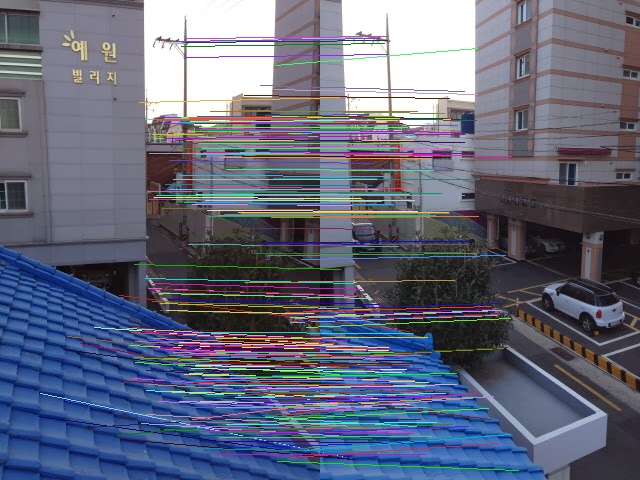
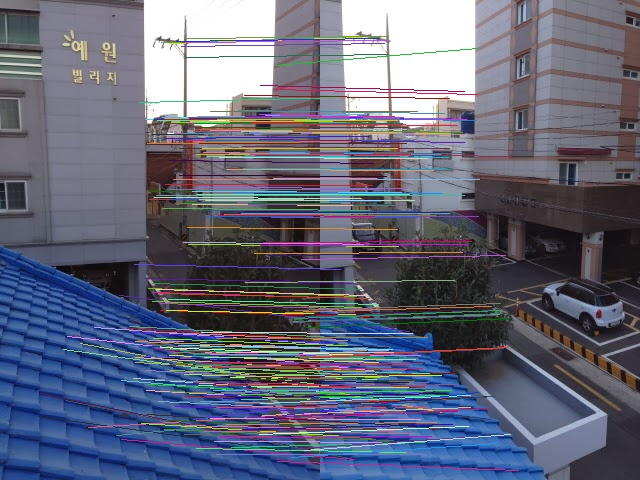
update

Changed region(s): [[0.0625, 0.1562, 0.8125, 1.0], [0.25, 0.0625, 0.625, 0.125]]

diff --git a/HW3/APIS/apis.py b/HW3/APIS/apis.py
@@ -1,7 +1,6 @@
 from typing import List, Any, Tuple
 import math
 import numpy as np
-from scipy import interpolate
 
 from cv2 import cv2
 
@@ -88,9 +87,9 @@ def homomat(min_match_count: int, src, dst):
         src1, src2 = src[i, 0, 0], src[i, 0, 1]
         dst1, dst2 = dst[i, 0, 0], dst[i, 0, 1]
         A[i * 2, :] = [src1, src2, 1, 0, 0, 0, -
-                       src1 * dst1, - src2 * dst1, - dst1]
+                       src1 * dst1, - src2 * dst1, -dst1]
         A[i * 2 + 1, :] = [0, 0, 0, src1, src2, 1, -
-                           src1 * dst2, - src2 * dst2, - dst2]
+                           src1 * dst2, - src2 * dst2, -dst2]
     [_, S, V] = np.linalg.svd(A)
     m = V[np.argmin(S)]
     m *= 1 / m[-1]
@@ -116,7 +115,9 @@ def ransac(matches, kps_list, min_match_count, num_test: int, threshold: float):
             src_pts_reshape = src_pts.reshape(-1, 2)
             one = np.ones((len(src_pts_reshape), 1))
             src_pts_reshape = np.concatenate((src_pts_reshape, one), axis=1)
-            warped_left = np.mat(homography) * np.mat(src_pts_reshape).T
+            warped_left = np.array(np.mat(homography) * np.mat(src_pts_reshape).T)
+            for i, value in enumerate(warped_left.T):
+                warped_left[:, i] = (value * (1 / value[2])).T
 
             # Calculate SSD
             dst_pts_reshape = dst_pts.reshape(-1, 2)
@@ -143,64 +144,71 @@ def warp(img1, img2, homography):
     # Get images' height and weight
     (hA, wA), (hB, wB) = img1.shape[:2], img2.shape[:2]
 
-    # Create a new view window
-    vis = np.zeros((max(hA, hB), wA + wB, 3), dtype='uint8')
-
     # Transform image 1 with homography matrix
     img2_grid = [[n, m, 1] for n in range(wB) for m in range(hB)]
 
-    # Apply homography image 1
+    # Apply homography image 2
     warped_img2 = np.array(np.mat(homography) * np.mat(img2_grid).T)
+    for i, value in enumerate(warped_img2.T):
+        warped_img2[:, i] = (value * (1 / value[2])).T
 
-    min_n = math.floor(min(warped_img2[0]))
-    max_n = math.ceil(max(warped_img2[0]))
-    min_m = math.floor(min(warped_img2[1]))
-    max_m = math.ceil(max(warped_img2[1]))
-    print(min_n, max_n, min_m, max_m)
+    # Find size of new window
+    min_x = math.floor(min(warped_img2[0]))
+    max_x = math.ceil(max(warped_img2[0]))
+    min_y = math.floor(min(warped_img2[1]))
+    max_y = math.ceil(max(warped_img2[1]))
 
-    n_mosaic = max(max_n, wA) - min(min_n, 1) + 1
-    m_mosaic = max(max_m, hA) - min(min_m, 1) + 1
+    size_x = max(max_x, wA) - min(min_x, 1) + 100
+    size_y = max(max_y, hA) - min(min_y, 1) + 100
 
-    vis = np.zeros((n_mosaic, m_mosaic, 3), dtype='uint8')
-    warped = cv2.warpPerspective(img2, homography, (n_mosaic, m_mosaic))
+    if size_x > 100000:
+        print("Not good")
+        return None
+
+    # OpenCV warp
+    warped = cv2.warpPerspective(img2, homography, (size_y, size_x))
     warped[:hA, :wA] = img1
-    cv2.imshow("show", warped)
-    cv2.waitKey(10000)
+    cv2.imshow("show_opencv", warped)
+    cv2.waitKey(5000)
 
-    img2 = img2.reshape(-1, 1, 3)
-    for i, (x, y) in enumerate(zip(warped_img2[0], warped_img2[1])):
-        vis[math.ceil(x), math.ceil(y)] = img2[i, 0]
-    cv2.imshow("show", vis)
-    cv2.waitKey(10000)
+    # Save the window
+    cv2.imwrite('./results/warp/openCV.jpg', warped)
+    cv2.destroyAllWindows()
 
-    '''# Apply inverse homography to image 1
-    [N_mosaic, M_mosaic] = np.mgrid[min(min_n, 1): (min(min_n, 1) + n_mosaic - 1), min(min_m, 1): (min(min_m, 1) + m_mosaic - 1)]
-    N_mosaic = N_mosaic.reshape(-1,)
-    M_mosaic = M_mosaic.reshape(-1,)
-    ind_mosaic_homo = np.array([[n, m, 1] for n, m in zip(N_mosaic, M_mosaic)])
+    # My warp
 
-    ind_inv_homo = np.linalg.inv(homography).dot(ind_mosaic_homo.T)
-    ind_inv = ind_inv_homo.T / ind_inv_homo[2, :].T.reshape(-1, 1)
-    ind_inv = ind_inv[:, 0: 2]
+    # Take four corner from image 1
+    img1_corners = [[0, 0, 1], [0, hA, 1], [wA, 0, 1], [wA, hA, 1]]
+    warped_corners = np.array(np.linalg.inv(np.mat(homography)) * np.mat(img1_corners).T)
+    for i, value in enumerate(warped_corners.T):
+        warped_corners[:, i] = (value * (1 / value[2])).T
 
-    m_len = (min(min_n, 1) + n_mosaic - 1) - min(min_n, 1)
-    n_len = (min(min_m, 1) + m_mosaic - 1) - min(min_m, 1)
-    M_inv = ind_inv[:, 0].reshape(m_len, n_len)
-    N_inv = ind_inv[:, 1].reshape(m_len, n_len)
+    max4y = math.ceil(max(warped_corners[:, 0]))
+    min4y = math.floor(min(warped_corners[:, 0]))
+    max4x = math.ceil(max(warped_corners[:, 1]))
+    min4x = math.floor(min(warped_corners[:, 1]))
 
-    x, y = np.arange(1, img1.shape[0] + 1), np.arange(1, img1.shape[1] + 1)
-    x_, y_ = ind_inv[:100, 0], ind_inv[:100, 1]
-    f_1 = interpolate.interp2d(
-        x, y, img1[:, :, 0].T, kind='linear')
-    f_2 = interpolate.interp2d(
-        x, y, img1[:, :, 1].T, kind='linear')
-    f_3 = interpolate.interp2d(
-        x, y, img1[:, :, 2].T, kind='linear')
-    print(x_, y_)
-    img1_m[:, :, 0], img1_m[:, :, 1], img1_m[:, :, 2] = f_1(x_, y_), f_2(x_, y_), f_3(x_, y_)
+    max8y = max(max4y, hB)
+    min8y = min(min4y, 0)
+    max8x = max(max4x, wB)
+    min8x = min(min4x, 0)
 
-    cv2.imshow("show.jpg", img1_m)
-    cv2.waitKey(10000)
+    new_size_y = max8y - min8y
+    new_size_x = max8x - min8x
 
-    # Initiate the new window height and weight by images' parameters
-    vis[0:hA, 0:wA], vis[0:hB, wA:] = img1, img2'''
+    vis = np.zeros((new_size_y, new_size_x, 3), dtype='uint8')
+    vis_grid = [[n, m, 1] for n in range(vis.shape[1]) for m in range(vis.shape[0])]
+
+    # Forward Mapping
+    vis_forward = np.zeros((size_y, size_x, 3), dtype='uint8')
+    for x, y, im in zip(warped_img2[0], warped_img2[1], img2_grid):
+        if(sum(img2[im[1], im[0], :]) == 0):
+            print(im[1], im[0])
+        vis_forward[int(y + 0.5), int(x + 0.5)] = img2[im[1], im[0], :]
+    vis_forward[:hA, :wA] = img1
+    cv2.imshow("show_my", vis_forward)
+    cv2.waitKey(5000)
+
+    # Save the window
+    cv2.imwrite('./results/warp/my_forward.jpg', vis_forward)
+    cv2.destroyAllWindows()

diff --git a/HW3/run.py b/HW3/run.py
@@ -9,28 +9,28 @@ if __name__ == '__main__':
         "1": {
             "path": ['1.jpg', '2.jpg'],
             "ratio": 0.75,
-            "min_match_num": 20,
-            "iter": 1000,
-            "threshold": 200
+            "min_match_num": 32,
+            "iter": 3000,
+            "threshold": 70
         },
         "2": {
             "path": ['hill1.JPG', 'hill2.JPG'],
-            "ratio": 0.5,
-            "min_match_num": 8,
-            "iter": 500,
-            "threshold": 50
+            "ratio": 0.8,
+            "min_match_num": 32,
+            "iter": 3000,
+            "threshold": 180
         },
         "3": {
             "path": ['S1.jpg', 'S2.jpg'],
-            "ratio": 0.75,
-            "min_match_num": 8,
-            "iter": 100,
-            "threshold": 150
+            "ratio": 0.8,
+            "min_match_num": 16,
+            "iter": 3000,
+            "threshold": 100
         },
     }
 
     for k, para in PARA_DIC.items():
-        if k == "1":
+        if k != "1":
             continue
         print(k)
         img_list = []
@@ -57,12 +57,8 @@ if __name__ == '__main__':
         path_ransac = f'./results/lines_ransac/{path.split(".")[0]}_result.jpg'
         save_matching_img(img_list, kps_list, best_matches, path_ransac)
 
-        src_pts = np.array(
-            [kps_list[1][m[1]].pt for m in best_matches])
-        dst_pts = np.array(
-            [kps_list[0][m[0]].pt for m in best_matches])
-        indexs = np.random.choice(len(best_matches), 4)
-        warpR = cv2.getPerspectiveTransform(np.array(src_pts[indexs], np.float32),
-                                            np.array(dst_pts[indexs], np.float32))
         # Wrap
-        warp(img_list[0], img_list[1], warpR)
+        '''best_homomat = np.array([[7.67052069e-01, -1.33024188e-02, 1.22317779e+02],
+                                 [-1.24741706e-01, 9.22697193e-01, 1.25025810e+01],
+                                 [-6.95491259e-04, -1.36813131e-05, 1.00000000e+00]])'''
+        warp(img_list[0], img_list[1], best_homomat)
